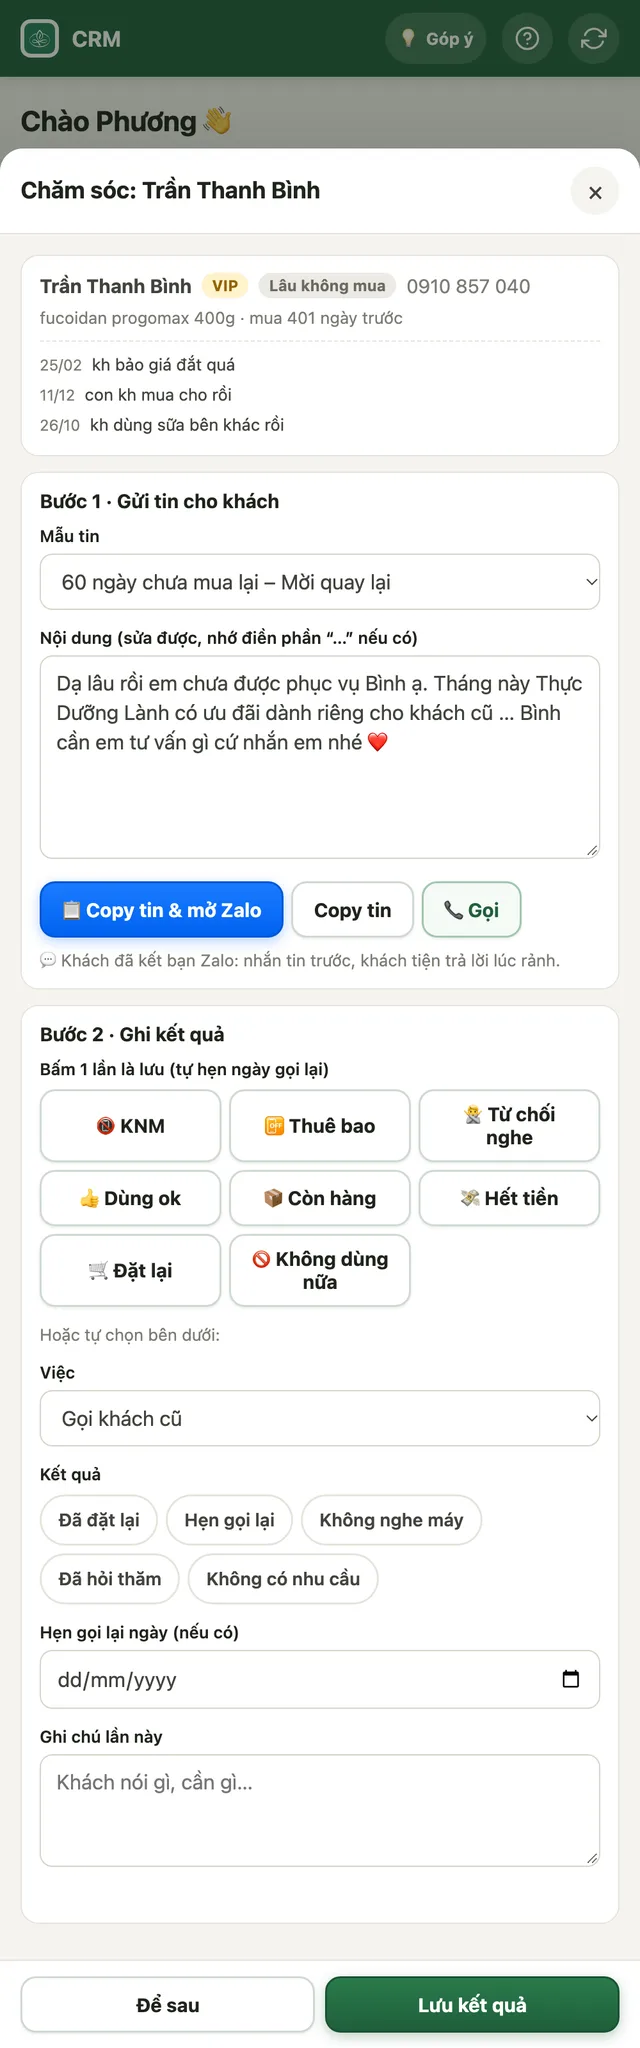
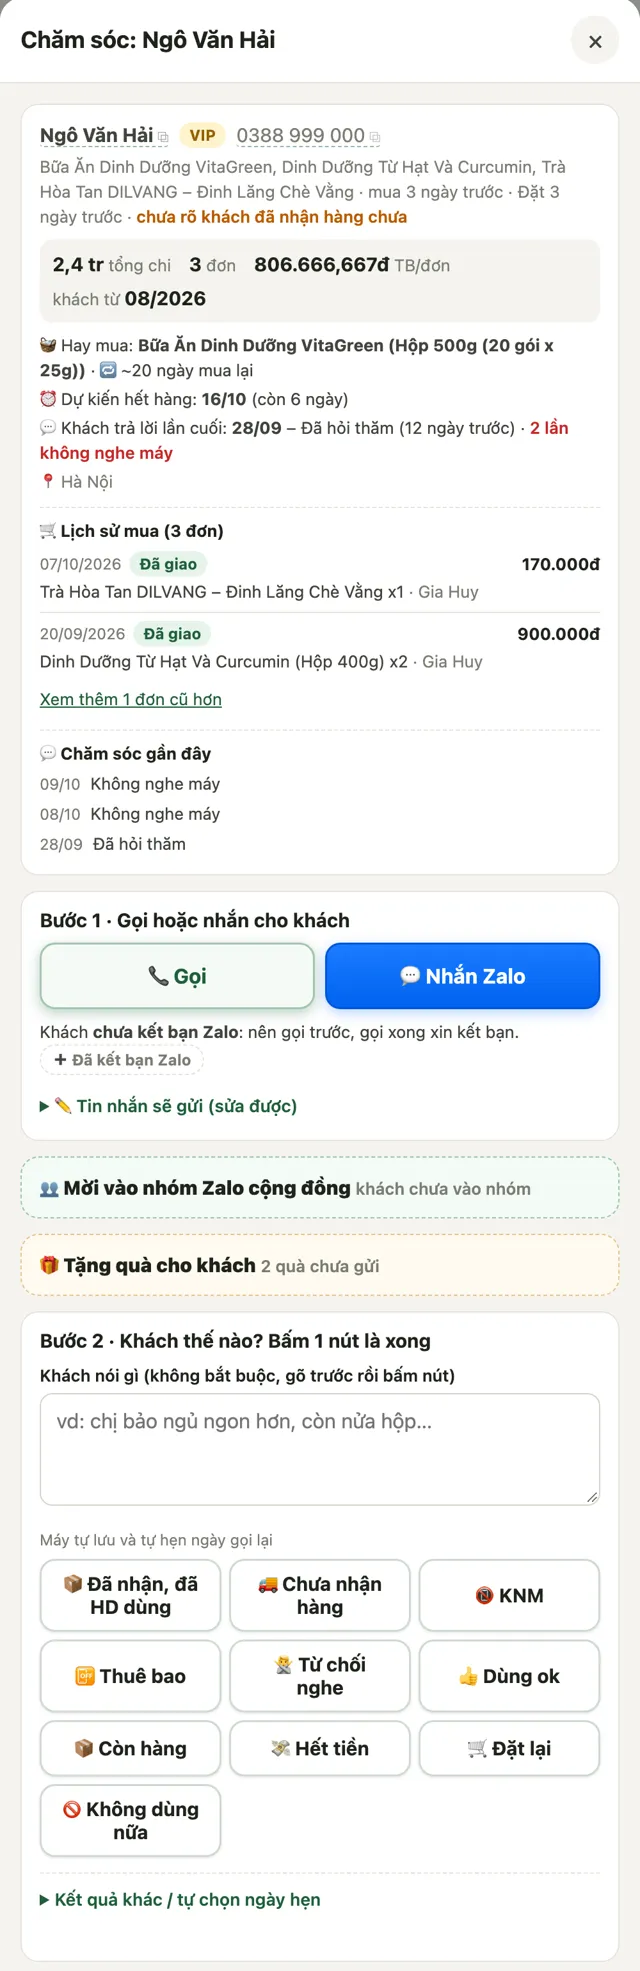
CRM: hộp chăm sóc gọn hơn – 2 nút lớn Gọi/Nhắn Zalo, ô ghi chú trên nút kết quả, mẫu tin không còn trống, thu gọn quà/nhóm, sửa ô ngày tràn

diff --git a/crm/app.js b/crm/app.js
@@ -819,9 +819,9 @@
     txt = fillTpl(txt, c); return /\[Link nhóm\]/i.test(txt) ? txt.replace(/\[Link nhóm\]/gi, CFG.zalo_group || '') : txt + (CFG.zalo_group && txt.indexOf(CFG.zalo_group) < 0 ? '\n' + CFG.zalo_group : '');
   }
   /** Khung mời cộng đồng trong hộp chăm sóc: mở sẵn ở mốc hỏi nhận hàng / hỏi thăm 1 tuần. */
-  function commBox(c, type) {
+  function commBox(c, type, shut) {
     if (inComm(c)) return '';
-    var open = (type === 'd1' || type === 'd7') && !invited(c);
+    var open = !shut && (type === 'd1' || type === 'd7') && !invited(c);
     return '<details class="box comm"' + (open ? ' open' : '') + '><summary><b>👥 Mời vào nhóm Zalo cộng đồng</b> <span class="small muted">' + (invited(c) ? esc(c.community) + ', khách chưa vào nhóm' : 'khách chưa vào nhóm') + '</span></summary>' +
       '<p class="small" style="margin:8px 0">Nhóm <b>“Sống khỏe cùng Thực Dưỡng Lành”</b>: kiến thức dinh dưỡng, thực đơn lành mạnh, <b>Zoom hỏi đáp miễn phí cùng chuyên gia dinh dưỡng</b>. Khách trong nhóm gắn bó và mua lại nhiều hơn.</p>' +
       '<div class="steps"><button type="button" class="btn zalo" data-comm="' + c.phone + '|zalo">📋 Copy lời mời & mở Zalo</button><button type="button" class="btn" data-comm="' + c.phone + '|copy">Copy lời mời</button><button type="button" class="btn" data-comm="' + c.phone + '|in">✅ Khách đã vào nhóm</button></div></details>';
@@ -873,10 +873,10 @@
     if (withZalo && CFG.zalo_group && p.community !== 'Đã vào') txt += GIFT_ZALO;
     return fillTpl(txt, p).replace(/\[Link quà\]/gi, g.link).replace(/\[Tên quà\]/gi, g.title).replace(/\[Link nhóm\]/gi, CFG.zalo_group || '');
   }
-  function giftBox(p, ctx) {
+  function giftBox(p, ctx, shut) {
     var list = giftList(); if (!p || !list.length) return '';
     var ord = giftOrder(p), left = ord.filter(function (g) { return !giftGot(p, g); }).length;
-    var open = !!GIFT_TIP[ctx] && (ctx === 'd1' || ctx === 'd7' || ctx === 'lead') && left > 0;
+    var open = !shut && !!GIFT_TIP[ctx] && (ctx === 'd1' || ctx === 'd7' || ctx === 'lead') && left > 0;
     return '<details class="box gift" data-gift-box="' + p.phone + '|' + (ctx || '') + '"' + (open ? ' open' : '') + '><summary><b>🎁 Tặng quà cho khách</b> <span class="small muted">' + (left ? left + ' quà chưa gửi' : 'đã gửi đủ quà') + '</span></summary>' +
       '<p class="small" style="margin:8px 0">' + esc(GIFT_TIP[ctx] || 'Quà tặng miễn phí, gửi để thêm giá trị cho khách. Mỗi khách gửi mỗi quà 1 lần là đủ.') + '</p>' +
       ord.map(function (g, i) {
@@ -1467,9 +1467,10 @@
   /* ---------- hộp chăm sóc: tin mẫu → Zalo → kết quả */
   function templateFor(type) {
     var key = TASKS[type === 'old' ? 'winback' : type] && TASKS[type === 'old' ? 'winback' : type].tpl, tp = S.d.templates; // khách cũ lâu chưa gọi → dùng mẫu "Mời quay lại"
-    if (!key) return -1;
-    for (var i = 0; i < tp.length; i++) if (norm(tp[i][0]).indexOf(norm(key)) >= 0) return i;
-    return -1;
+    var find = function (k) { for (var i = 0; i < tp.length; i++) if (norm(tp[i][0]).indexOf(norm(k)) >= 0) return i; return -1; };
+    var i = key ? find(key) : -1;
+    if (i < 0 && type !== 'callback') i = find('7 ngày'); // việc chưa có mẫu riêng (chăm sóc tự do…) → mẫu hỏi thăm, không để ô tin trống
+    return i;
   }
   function fillTpl(text, c) {
     var name = (c.name || '').replace(/\(.*?\)/g, ' ').trim().split(/\s+/).pop() || 'anh/chị';
@@ -1486,20 +1487,23 @@
       (c.flag ? '<div class="notice" style="background:var(--red-light);color:var(--red);margin:8px 0 0">⚠ Khách có nhãn <b>' + esc(c.flag) + '</b>. Nên yêu cầu chuyển khoản trước khi gửi hàng.</div>' : '') +
       '<div id="kSum">' + careSum(c, null) + '</div>' +
       (hist.length ? '<div class="k-sec">💬 Chăm sóc gần đây</div><div class="mini-hist">' + hist.map(function (x) { return '<div><span>' + fDate(x.time).slice(0, 5) + '</span> ' + esc(x.text) + '</div>'; }).join('') + '</div>' : '') + '</div>' +
-      '<div class="box"><h3>Bước 1 · Gửi tin cho khách</h3>' +
-      '<label class="f"><span>Mẫu tin</span><select id="kTpl"><option value="-1">– Tự viết –</option>' + tp.map(function (t, i) { return '<option value="' + i + '"' + (i === ti ? ' selected' : '') + '>' + esc(t[0] + (t[1] ? ' – ' + t[1] : '')) + '</option>'; }).join('') + '</select></label>' +
-      '<label class="f"><span>Nội dung (sửa được, nhớ điền phần “…” nếu có)</span><textarea id="kMsg" rows="6">' + esc(ti >= 0 ? fillTpl(tp[ti][2], c) : '') + '</textarea></label>' +
-      (c.zalo ? '<div class="steps"><button class="btn zalo" id="kZalo">📋 Copy tin & mở Zalo</button><button class="btn" id="kCopy">Copy tin</button><a class="btn" href="tel:' + c.phone + '">📞 Gọi</a></div><p class="small muted" style="margin:8px 0 0">' + ZI + ' Khách đã kết bạn Zalo: nhắn tin trước, khách tiện trả lời lúc rảnh.</p></div>'
-        : '<div class="steps"><a class="btn pri" href="tel:' + c.phone + '">📞 Gọi</a><button class="btn zalo" id="kZalo">📋 Copy tin & mở Zalo</button><button class="btn" id="kCopy">Copy tin</button></div><p class="small" style="margin:8px 0 0">Khách <b>chưa kết bạn Zalo</b>: gọi xong nhớ xin kết bạn để lần sau nhắn tin chăm sóc. ' + (canEdit(c) ? zaloTag(c) : '') + '</p></div>') +
-      commBox(c, type) + giftBox(giftPerson(c.phone), type) +
-      '<div class="box"><h3>Bước 2 · Ghi kết quả</h3>' +
-      '<div class="f"><span style="display:block;font-size:13px;font-weight:600;margin-bottom:6px;color:var(--ink)">Bấm 1 lần là lưu (tự hẹn ngày gọi lại)</span><div class="quick">' + QUICK.filter(function (q) { return !q.only || q.only === type; }).sort(function (a, b) { return (b.only ? 1 : 0) - (a.only ? 1 : 0); }).map(function (q) { return '<button class="btn" data-q="' + q.k + '" title="' + esc(q.r + (q.d ? ', ' + q.d + ' ngày sau tự nhắc gọi lại' : '')) + '">' + q.l + '</button>'; }).join('') + '</div></div>' +
-      '<p class="small muted" style="margin:4px 0 10px">Hoặc tự chọn bên dưới:</p>' +
+      '<div class="box"><h3>Bước 1 · Gọi hoặc nhắn cho khách</h3>' +
+      (c.zalo ? '<div class="k-go"><button class="btn zalo" id="kZalo">💬 Nhắn Zalo</button><a class="btn" href="tel:' + c.phone + '">📞 Gọi</a></div><p class="small muted" style="margin:8px 0 0">' + ZI + ' Khách đã kết bạn Zalo: nhắn trước, khách tiện trả lời lúc rảnh. Bấm <b>Nhắn Zalo</b> là tin bên dưới được copy sẵn, chỉ cần dán và gửi.</p>'
+        : '<div class="k-go"><a class="btn pri" href="tel:' + c.phone + '">📞 Gọi</a><button class="btn zalo" id="kZalo">💬 Nhắn Zalo</button></div><p class="small" style="margin:8px 0 0">Khách <b>chưa kết bạn Zalo</b>: nên gọi trước, gọi xong xin kết bạn. ' + (canEdit(c) ? zaloTag(c) : '') + '</p>') +
+      '<details class="k-msg"' + (c.zalo ? ' open' : '') + '><summary>✏ Tin nhắn sẽ gửi (sửa được)</summary>' +
+      '<label class="f" style="margin-top:8px"><span>Mẫu tin</span><select id="kTpl"><option value="-1">– Tự viết –</option>' + tp.map(function (t, i) { return '<option value="' + i + '"' + (i === ti ? ' selected' : '') + '>' + esc(t[0] + (t[1] ? ' – ' + t[1] : '')) + '</option>'; }).join('') + '</select></label>' +
+      '<label class="f"><span>Nội dung (nhớ điền phần “…” nếu có)</span><textarea id="kMsg" rows="5">' + esc(ti >= 0 ? fillTpl(tp[ti][2], c) : '') + '</textarea></label>' +
+      '<button type="button" class="link small" id="kCopy">Chỉ copy tin (không mở Zalo)</button></details></div>' +
+      commBox(c, type, true) + giftBox(giftPerson(c.phone), type, true) + // thu gọn: để Bước 2 không bị đẩy xuống xa
+      '<div class="box"><h3>Bước 2 · Khách thế nào? Bấm 1 nút là xong</h3>' +
+      '<label class="f"><span>Khách nói gì (không bắt buộc, gõ trước rồi bấm nút)</span><textarea id="kNote" rows="2" placeholder="vd: chị bảo ngủ ngon hơn, còn nửa hộp…"></textarea></label>' +
+      '<div class="f"><span style="display:block;font-size:12px;color:var(--muted);margin-bottom:6px">Máy tự lưu và tự hẹn ngày gọi lại</span><div class="quick">' + QUICK.filter(function (q) { return !q.only || q.only === type; }).sort(function (a, b) { return (b.only ? 1 : 0) - (a.only ? 1 : 0); }).map(function (q) { return '<button class="btn" data-q="' + q.k + '" title="' + esc(q.r + (q.d ? ', ' + q.d + ' ngày sau tự nhắc gọi lại' : '')) + '">' + q.l + '</button>'; }).join('') + '</div></div>' +
+      '<details class="k-more"><summary>Kết quả khác / tự chọn ngày hẹn</summary><div style="margin-top:10px">' +
       '<label class="f"><span>Việc</span><select id="kTask">' + Object.keys(TASK_LOG).map(function (k) { return '<option value="' + k + '"' + (k === type ? ' selected' : '') + '>' + TASK_LOG[k] + '</option>'; }).join('') + '</select></label>' +
       '<div class="f"><span style="display:block;font-size:13px;font-weight:600;margin-bottom:6px;color:var(--ink)">Kết quả</span><div class="radios">' + RESULTS.map(function (r, i) { return '<label><input type="radio" name="kRes" value="' + esc(r) + '"' + '><span>' + esc(r) + '</span></label>'; }).join('') + '</div></div>' +
       '<label class="f" id="kCbWrap"><span>Hẹn gọi lại ngày (nếu có)</span><input type="date" id="kCb" min="' + isoDate(Date.now()) + '"></label>' +
-      '<label class="f"><span>Ghi chú lần này</span><textarea id="kNote" rows="2" placeholder="Khách nói gì, cần gì…"></textarea></label><p class="err" id="kErr"></p></div>';
-    var m = modal((opt.flow ? '📞 ' : 'Chăm sóc: ') + esc(c.name), body, opt.flow ? '<button class="btn" id="kSkip">⏭ Để sau</button><button class="btn pri" id="kSave">Lưu & sang khách tiếp</button>' : '<button class="btn" data-close>Để sau</button><button class="btn pri" id="kSave">Lưu kết quả</button>');
+      '<button class="btn pri" id="kSave" style="width:100%">' + (opt.flow ? 'Lưu & sang khách tiếp' : 'Lưu kết quả') + '</button></div></details><p class="err" id="kErr"></p></div>';
+    var m = modal((opt.flow ? '📞 ' : 'Chăm sóc: ') + esc(c.name), body, opt.flow ? '<button class="btn" id="kSkip">⏭ Để sau, sang khách tiếp</button>' : '<button class="btn" data-close>Để sau</button>');
     if (opt.flow) {
       m.addEventListener('click', function (e) { if (e.target === m || e.target.closest('[data-close]')) S.flow = null; }, true); // bấm ✕ = dừng gọi lần lượt
       $('#kSkip', m).onclick = function () { if (S.flow) S.flow.skip[c.phone] = 1; closeModal(true); nextFlow(); };
@@ -1518,14 +1522,14 @@
       if (!res) { err.textContent = 'Bạn chọn kết quả giúp nhé.'; return; }
       var p = { phone: c.phone, task: $('#kTask', m).value, result: res.value, note: $('#kNote', m).value.trim(), callback: $('#kCb', m).value };
       var btn = this; btn.disabled = true; btn.textContent = 'Đang lưu…';
-      saveCare(c, p).then(function () { closeModal(); toast('Đã lưu kết quả chăm sóc ✓'); navBadges(); render(); if (S.flow) setTimeout(nextFlow, 200); }, function (e) { btn.disabled = false; btn.textContent = 'Lưu kết quả'; err.textContent = e.message; });
+      saveCare(c, p).then(function () { closeModal(); toast('Đã lưu kết quả chăm sóc ✓'); navBadges(); render(); if (S.flow) setTimeout(nextFlow, 200); }, function (e) { btn.disabled = false; btn.textContent = opt.flow ? 'Lưu & sang khách tiếp' : 'Lưu kết quả'; err.textContent = e.message; });
     };
   }
   /** Tóm tắt khách trong hộp chăm sóc: giá trị, thói quen mua, lần cuối trả lời, lịch sử đơn – nhìn 1 màn hình là đủ để gọi. */
   function careSum(c, all, more) {
     var list = (all || ordersOf(c.phone)).slice().sort(function (a, b) { return (b.time || 0) - (a.time || 0); }), st = custStats(c, list), r = replyOf(c), pv = provOf(c);
     var health = noteExtras(c.note).filter(function (l) { return /^Sức khoẻ:/.test(l.trim()); }).map(function (l) { return l.replace(/^\s*Sức khoẻ:\s*/, ''); }).join('; ');
-    var sg = suggestFor(c), max = more ? list.length : 3;
+    var sg = suggestFor(c), max = more ? list.length : 2;
     return '<div class="k-val"><span><b>' + moneyShort(c.spent) + '</b> tổng chi</span><span><b>' + c.orders + '</b> đơn</span>' + (c.orders ? '<span><b>' + moneyShort(c.spent / c.orders) + '</b> TB/đơn</span>' : '') + (c.first ? '<span>khách từ <b>' + fDate(c.first).replace(/^\d+\//, '') + '</b></span>' : '') + '</div>' +
       '<div class="k-lines">' +
       (st.top ? '<div>🧺 Hay mua: <b>' + esc(st.top) + '</b>' + (st.topN > 1 ? ' (' + st.topN + ' lần)' : '') + (st.gap ? ' · 🔁 ~' + st.gap + ' ngày mua lại' : '') + '</div>' : '') +

diff --git a/crm/app.css b/crm/app.css
@@ -639,3 +639,10 @@ details.gift summary::-webkit-details-marker{display:none}
 @media (min-width: 860px) { .fb-btn .fb-lbl { display: none; } .icon-btn.fb-btn { width: 38px; padding: 0; } }
 @media (min-width: 860px) and (max-width: 1279px) { .nav a svg { display: none; } }
 @media (min-width: 860px) and (max-width: 1023px) { .top-in { padding: 8px 12px; gap: 6px; } .nav a { padding: 8px 7px; font-size: 13px; } }
+/* Hộp chăm sóc: 2 nút lớn Gọi / Nhắn Zalo, tin nhắn & kết quả khác thu gọn */
+.k-go { display: grid; grid-template-columns: 1fr 1fr; gap: 8px; }
+.k-go .btn { justify-content: center; min-height: 52px; font-size: 16px; }
+details.k-msg, details.k-more { margin-top: 10px; }
+details.k-msg summary, details.k-more summary { cursor: pointer; font-size: 13.5px; font-weight: 600; color: var(--primary); padding: 4px 0; }
+details.k-more { border-top: 1px dashed var(--line); padding-top: 6px; }
+input[type=date] { -webkit-appearance: none; appearance: none; display: block; min-width: 0; max-width: 100%; text-align: left; }

diff --git a/HUONG-DAN.md b/HUONG-DAN.md
@@ -86,6 +86,7 @@ website/
 - Form (`initCamNang`): tên + SĐT + chip "vấn đề quan tâm" (bắt buộc ≥ 1) + câu hỏi thêm → `{type:'contact', kind:'ebook', book:'cam-nang', book_title, concern, ask}`. api/ (bản 2026-10-10a) với `kind:'ebook'`: lead kênh "Ebook – quà tặng (Website)", interest = "<book_title> · Quan tâm: …", Telegram 🎁 ĐĂNG KÝ EBOOK, không gửi email. Xong mở sách ở tab mới với `?ma=<mã>`; localStorage `tdl_camnang`. GA4 `generate_lead` (form: camnang).
 - Khoá trang sách: index.html của camnangsongkhoe có script đầu trang: có `?ma=` → lưu localStorage `tdl_cn`; chưa có → chuyển về `/cam-nang-song-khoe/?tu=link_sach`. Trang sách là Cloudflare Pages project `camnang-song-khoe-thuc-duong-lanh` (Direct Upload, không nối GitHub), nguồn ở máy Mac `Website TDL/cam-nang-song-khoe-ban-co-khoa/` (bản gốc trong thư mục Codex 2026-10-09). Đăng lại: `npx wrangler@4 pages deploy . --project-name camnang-song-khoe-thuc-duong-lanh --branch main` trong thư mục đó (khoá đã lên 10/10/2026). Sửa sách thì giữ đoạn script khoá ở đầu `index.html`. Khoá mềm (chặn người xem thường, không chặn người rành kỹ thuật); PDF `downloads/` vẫn mở trực tiếp được.
 - **Form quà dùng chung (bản 10/10/2026 chiều)**: `gift_form(key)` (key `camnang` | `ebook`) cho cả `/cam-nang-song-khoe/` và `/ebook/`: tên, SĐT, chip vấn đề quan tâm (`CN_CONCERNS`, `EB_CONCERNS`), câu hỏi thêm. JS `initGiftForm`: lưu `tdl_lead` {name, phone, concern, gifts}; khách đã có `tdl_lead` sang quà kia → ô "Chào …, nhận ngay 1 chạm" (gửi `again: true`, Telegram "NHẬN THÊM EBOOK", api ghi nối Quan tâm bằng ` | ` qua `addInterest` thay vì ghi đè). Xong → mở quà + mời nhóm Zalo + thẻ "Anh/chị còn 1 quà nữa". `initGiftStatus`: thẻ quà ở trang chủ / `/qua-tang/` hiện "✓ Đã nhận · Đọc lại" hoặc "Nhận ngay 1 chạm".
+- **Hộp chăm sóc** (`openCare`, 10/10/2026): Bước 1 = 2 nút lớn `.k-go` (📞 Gọi / 💬 Nhắn Zalo = copy tin + mở Zalo), tin nhắn trong `details.k-msg` (mở sẵn nếu khách đã kết bạn Zalo); `templateFor` không có mẫu riêng (trừ callback) thì lấy mẫu "7 ngày". Bước 2 = ô `kNote` (Khách nói gì) đặt TRÊN các nút QUICK; Việc/Kết quả/Hẹn ngày + nút Lưu nằm trong `details.k-more`; footer chỉ còn Để sau. `commBox`/`giftBox` tham số `shut` = luôn thu gọn trong hộp chăm sóc. Lịch sử mua mặc định 2 đơn.
 - **CRM tặng quà** (api 2026-10-10e): `build.py crm_gifts()` → `CRM_CONFIG.gifts` (key, title, link đọc thẳng: cẩm nang `reader?ma=crm`, ebook = flipbook; image, desc). `crm/app.js`: `giftBox(p, ctx)` trong hộp chăm sóc (`openCare`), hồ sơ khách (`openCustomer`), `openConsult`, `openLead`; `giftOrder` gợi ý theo từ khoá khớp/xương/gout trong sản phẩm, quan tâm, ghi chú; `giftGot` = nhật ký "Gửi quà tặng" hoặc lead kênh Ebook có tên quà. Mẫu: `GIFT_TPL` hoặc Mẫu tin có "Quà tặng" + "cẩm nang"/"ebook", chỗ trống [Tên], [Link quà], [Tên quà], [Link nhóm]. Gửi → `sendOp('gift')` → api `crmGift` ghi log.
 - **Link nhóm Zalo cố định** `/nhom-zalo/`: trang chuyển hướng tới `zalo_group` (sửa ở /admin → Cài đặt). Dùng cho QR, sách cẩm nang, bài đăng; nhóm đầy chỉ cần đổi link ở /admin. Sách cẩm nang (nút Zalo + ảnh `qr/ma-qr-nhom-zalo-song-khoe.png`) đã trỏ vào link này từ 10/10/2026; tạo lại ảnh QR: `Website TDL/cam-nang-song-khoe-tao-qr-zalo.py <đường dẫn ảnh>` (cần thư viện `qrcode[pil]`).
 - Popup (`initGiftPop`): máy tính = chuột ra mép trên; điện thoại = vuốt ngược nhanh sau khi cuộn > 1 màn hình, hoặc rời app rồi quay lại (sau 30 giây). Chỉ sau 12 giây trên trang; 1 lần/phiên; bấm đóng → không hiện 7 ngày (`tdl_gp_off`). Không hiện khi có giỏ hàng, có `tdl_last_order`, `tdl_camnang`, `tdl_ebook`, hoặc ở trang giỏ/thanh toán/cảm ơn/quà tặng. Sự kiện GA4: `gift_popup_view` (`trigger`), `gift_popup_click`, `gift_popup_close`.

diff --git a/guide/crm.md b/guide/crm.md
@@ -222,8 +222,8 @@ Công ty có 2 món quà miễn phí để **thêm giá trị cho khách**: cẩ
 ![Hộp chăm sóc khách](/huong-dan/img/crm-care.webp)
 
 1. Bấm nút **💬** trên dòng khách (hoặc **▶ Bắt đầu gọi lần lượt** ở tab Hôm nay).
-2. **Bước 1 – Gửi tin:** CRM chọn sẵn **mẫu tin** hợp với việc, tự điền tên khách và sản phẩm. Đọc lại, sửa cho tự nhiên. Bấm **📋 Copy tin & mở Zalo**, rồi dán tin vào khung chat Zalo của khách và gửi. Muốn gọi thì bấm **📞 Gọi**.
-3. Quay lại CRM. **Bước 2 – Ghi kết quả.** Cách nhanh nhất là **bấm 1 nút**, bấm xong là lưu luôn và máy tự hẹn ngày gọi lại:
+2. **Bước 1 – Gọi hoặc nhắn:** có 2 nút lớn **📞 Gọi** và **💬 Nhắn Zalo**. Bấm **Nhắn Zalo** thì CRM copy sẵn tin nhắn (đã chọn mẫu hợp với việc, điền tên khách và sản phẩm) và mở Zalo, bạn chỉ cần dán và gửi. Muốn xem hoặc sửa tin trước khi gửi thì bấm **✏ Tin nhắn sẽ gửi** (khách đã kết bạn Zalo thì khung này mở sẵn).
+3. Quay lại CRM. **Bước 2 – Khách thế nào?** Khách có nói gì thì gõ vài chữ vào ô **Khách nói gì** trước (không bắt buộc), rồi **bấm 1 nút**. Bấm xong là lưu luôn và máy tự hẹn ngày gọi lại:
 
     | Nút | Máy ghi | Tự nhắc gọi lại |
     | --- | --- | --- |
@@ -236,15 +236,17 @@ Công ty có 2 món quà miễn phí để **thêm giá trị cho khách**: cẩ
     | 🛒 **Đặt lại** | kh đặt lại, rồi mở luôn form tạo đơn | không hẹn |
     | 🚫 **Không dùng nữa** | kh không dùng nữa | không hẹn |
 
-    Có gõ thêm vào **Ghi chú lần này** thì máy ghi kèm. Ở tab Hôm nay, thẻ khách có sẵn nút **📵 KNM**: gọi không được thì bấm ngay, không cần mở hộp chăm sóc.
+    Chữ gõ ở ô **Khách nói gì** được ghi kèm. Ở tab Hôm nay, thẻ khách có sẵn nút **📵 KNM**: gọi không được thì bấm ngay, không cần mở hộp chăm sóc.
 
-    Hoặc tự chọn 1 kết quả bên dưới:
+    Không có nút phù hợp, hoặc muốn hẹn đúng 1 ngày cụ thể: bấm **Kết quả khác / tự chọn ngày hẹn**, chọn 1 kết quả rồi bấm **Lưu kết quả**:
     - **Đã đặt lại**: khách đặt thêm. Nhớ tạo đơn nếu khách đặt qua Zalo.
     - **Hẹn gọi lại**: chọn ngày hẹn (máy gợi ý 2 ngày sau). Đến ngày, khách tự hiện lại ở tab Hôm nay.
     - **Không nghe máy**: gọi hoặc nhắn mà khách chưa trả lời.
     - **Đã hỏi thăm**: đã nói chuyện, khách chưa cần mua.
     - **Không có nhu cầu**: khách không muốn mua thêm.
-4. Ghi vài chữ vào **Ghi chú lần này** (khách nói gì, cần gì), bấm **Lưu kết quả**. Khách rời khỏi danh sách hôm nay.
+4. Lưu xong, khách rời khỏi danh sách hôm nay. Chưa gọi được mà muốn để lát nữa thì bấm **Để sau**.
+
+Khung **👥 Mời vào nhóm Zalo** và **🎁 Tặng quà** trong hộp chăm sóc được thu gọn thành 1 dòng; bấm vào dòng đó để mở. Nhớ gửi quà / lời mời **trước** khi bấm nút kết quả (bấm nút kết quả là hộp đóng lại).
 
 **Lịch sử chăm sóc** trong hồ sơ khách gồm cả các lần ghi trên CRM và các ghi chú cũ nhập từ Sheet (ví dụ “21/7 kh nhận hàng, 9/8 knm”), sắp theo ngày, mới nhất ở trên.
 
